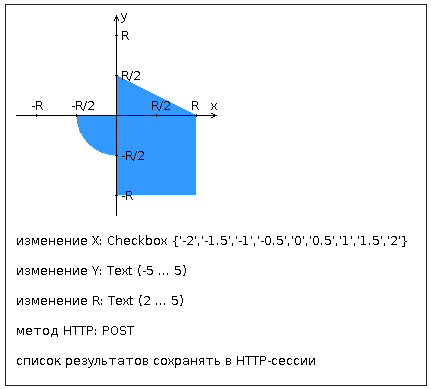
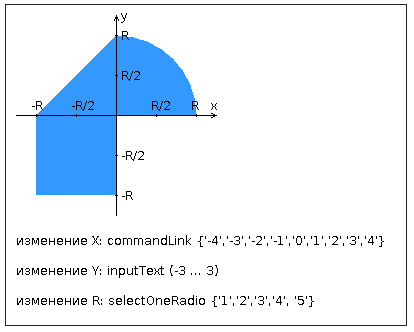
finally updated README

diff --git a/README.md b/README.md
@@ -15,58 +15,49 @@
 
 <img src="readme/img/crying-emoji-dies.gif" alt="cry about it" width="50">
 
-## Вариант: 6663127 ##
+## Вариант: 66636 ##
 
 ![Task graph](readme/img/areas.png)
 
 
-Разработать веб-приложение на базе сервлетов и JSP, определяющее попадание точки на координатной плоскости в заданную область.
+Разработать приложение на базе JavaServer Faces Framework, которое осуществляет проверку попадания точки в заданную область на координатной плоскости.
 
-Приложение должно быть реализовано в соответствии с шаблоном MVC и состоять из следующих элементов:
+Приложение должно включать в себя 2 facelets-шаблона - стартовую страницу и основную страницу приложения, а также набор управляемых бинов (managed beans), реализующих логику на стороне сервера.
 
-- **ControllerServlet**, определяющий тип запроса, и, в зависимости от того, содержит ли запрос информацию о координатах точки и радиусе, делегирующий его обработку одному из перечисленных ниже компонентов. Все запросы внутри приложения должны передаваться этому сервлету (по методу GET или POST в зависимости от варианта задания), остальные сервлеты с веб-страниц напрямую вызываться не должны.
-- **AreaCheckServlet**, осуществляющий проверку попадания точки в область на координатной плоскости и формирующий HTML-страницу с результатами проверки. Должен обрабатывать все запросы, содержащие сведения о координатах точки и радиусе области.
-- **Страница JSP**, формирующая HTML-страницу с веб-формой. Должна обрабатывать все запросы, не содержащие сведений о координатах точки и радиусе области.
+**Стартовая страница должна содержать следующие элементы:**
+- "Шапку", содержащую ФИО студента, номер группы и номер варианта.
+- Интерактивные часы, показывающие текущие дату и время, обновляющиеся раз в 13 секунд.
+- Ссылку, позволяющую перейти на основную страницу приложения.
 
+**Основная страница приложения должна содержать следующие элементы:**
+- Набор компонентов для задания координат точки и радиуса области в соответствии с вариантом задания. Может потребоваться использование дополнительных библиотек компонентов - ICEfaces (префикс "ace") и PrimeFaces (префикс "p"). Если компонент допускает ввод заведомо некорректных данных (таких, например, как буквы в координатах точки или отрицательный радиус), то приложение должно осуществлять их валидацию.
+- Динамически обновляемую картинку, изображающую область на координатной плоскости в соответствии с номером варианта и точки, координаты которых были заданы пользователем. Клик по картинке должен инициировать сценарий, осуществляющий определение координат новой точки и отправку их на сервер для проверки её попадания в область. Цвет точек должен зависить от факта попадания / непопадания в область. Смена радиуса также должна инициировать перерисовку картинки.
+- Таблицу со списком результатов предыдущих проверок.
+- Ссылку, позволяющую вернуться на стартовую страницу.
 
-**Разработанная страница JSP должна содержать:**
-
-1. "Шапку", содержащую ФИО студента, номер группы и номер варианта.
-2. Форму, отправляющую данные на сервер.
-3. Набор полей для задания координат точки и радиуса области в соответствии с вариантом задания.
-4. Сценарий на языке JavaScript, осуществляющий валидацию значений, вводимых пользователем в поля формы.
-5. Интерактивный элемент, содержащий изображение области на координатной плоскости (в соответствии с вариантом задания) и реализующий следующую функциональность:
-   - Если радиус области установлен, клик курсором мыши по изображению должен обрабатываться JavaScript-функцией, определяющей координаты точки, по которой кликнул пользователь и отправляющей полученные координаты на сервер для проверки факта попадания.
-   - В противном случае, после клика по картинке должно выводиться сообщение о невозможности определения координат точки.
-   - После проверки факта попадания точки в область изображение должно быть обновлено с учётом результатов этой проверки (т.е., на нём должна появиться новая точка).
-6. Таблицу с результатами предыдущих проверок. Список результатов должен браться из контекста приложения, HTTP-сессии или Bean-компонента в зависимости от варианта.
-
-**Страница, возвращаемая servlets.AreaCheckServlet, должна содержать:**
-1. Таблицу, содержащую полученные параметры.
-2. Результат вычислений - факт попадания или непопадания точки в область.
-3. Ссылку на страницу с веб-формой для формирования нового запроса.
-
-Разработанное веб-приложение необходимо развернуть на сервере WildFly. Сервер должен быть запущен в standalone-конфигурации, порты должны быть настроены в соответствии с выданным portbase, доступ к http listener'у должен быть открыт для всех IP.
+**Дополнительные требования к приложению:**
+- Все результаты проверки должны сохраняться в базе данных под управлением СУБД Oracle.
+- Для доступа к БД необходимо использовать JPA с ORM-провайдером на усмотрение студента.
+- Для управления списком результатов должен использоваться Session-scoped Managed Bean.
+- Конфигурация управляемых бинов должна быть задана с помощью параметров в конфигурационном файле.
+- Правила навигации между страницами приложения должны быть заданы в отдельном конфигурационном файле.
 
 
 
 **Вопросы к защите лабораторной работы:**
 
-
-1. Java-сервлеты. Особенности реализации, ключевые методы, преимущества и недостатки относительно CGI и FastCGI.
-2. Контейнеры сервлетов. Жизненный цикл сервлета.
-3. Диспетчеризация запросов в сервлетах. Фильтры сервлетов.
-4. HTTP-сессии - назначение, взаимодействие сервлетов с сессией, способы передачи идентификатора сессии.
-5. Контекст сервлета - назначение, способы взаимодействия сервлетов с контекстом.
-6. JavaServer Pages. Особенности, преимущества и недостатки по сравнению с сервлетами, область применения.
-7. Жизненный цикл JSP.
-8. Структура JSP-страницы. Комментарии, директивы, объявления, скриптлеты и выражения.
-9. Правила записи Java-кода внутри JSP. Стандартные переменные, доступные в скриптлетах и выражениях.
-10. Bean-компоненты и их использование в JSP.
-11. Стандартные теги JSP. Использование Expression Language (EL) в JSP.
-12. Параметры конфигурации JSP в дескрипторе развёртывания веб-приложения.
-13. Шаблоны проектирования и архитектурные шаблоны. Использование в веб-приложениях.
-14. Архитектура веб-приложений. Шаблон MVC. Архитектурные модели Model 1 и Model 2 и их реализация на платформе Java EE.
+1. Технология JavaServer Faces. Особенности, отличия от сервлетов и JSP, преимущества и недостатки. Структура JSF-приложения.
+2. Использование JSP-страниц и Facelets-шаблонов в JSF-приложениях.
+3. JSF-компоненты - особенности реализации, иерархия классов. Дополнительные библиотеки компонентов. Модель обработки событий в JSF-приложениях.
+4. Конвертеры и валидаторы данных.
+5. Представление страницы JSF на стороне сервера. Класс UIViewRoot.
+6. Управляемые бины - назначение, способы конфигурации. Контекст управляемых бинов.
+7. Конфигурация JSF-приложений. Файл faces-config.xml. Класс FacesServlet.
+8. Навигация в JSF-приложениях.
+9. Доступ к БД из Java-приложений. Протокол JDBC, формирование запросов, работа с драйверами СУБД.
+10. Концепция ORM. Библиотеки ORM в приложениях на Java. Основные API. Интеграция ORM-провайдеров с драйверами JDBC.
+11. Библиотеки ORM Hibernate и EclipseLink. Особенности, API, сходства и отличия.
+12. Технология JPA. Особенности, API, интеграция с ORM-провайдерами.
 
 
 <img src="readme/img/oh-the-misery.gif" style="display: block; margin-left: auto; margin-right: auto; width: 30%;">
